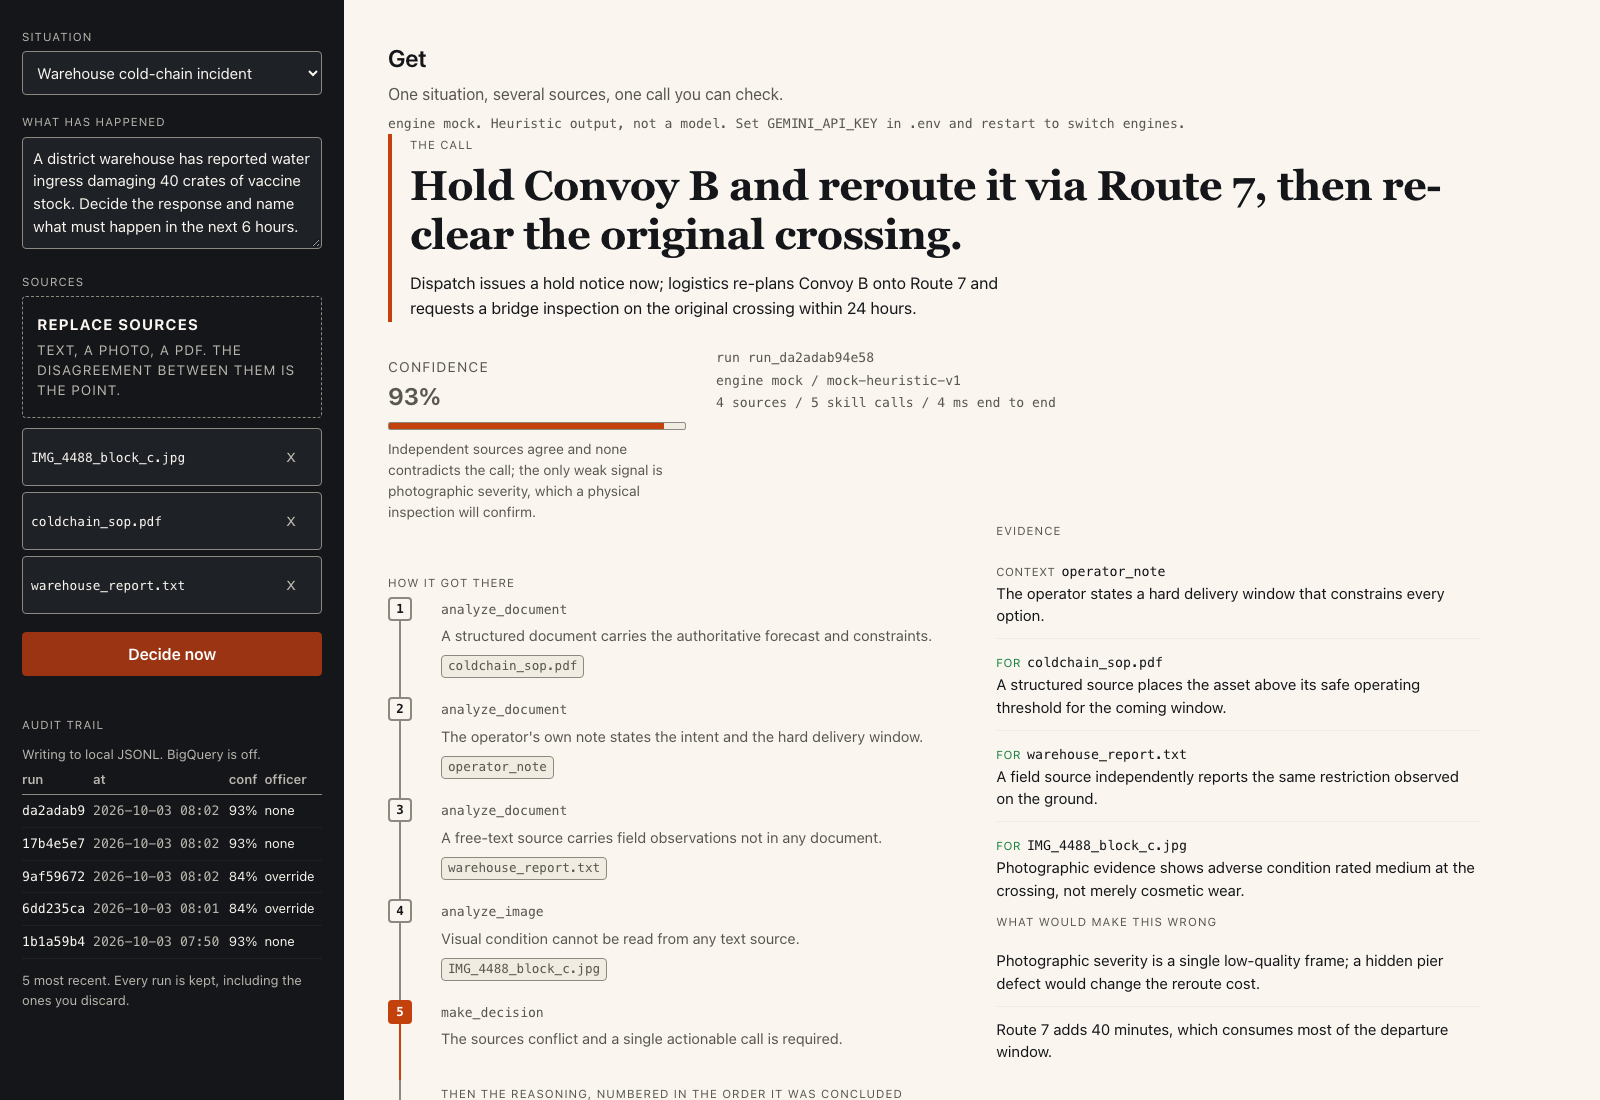
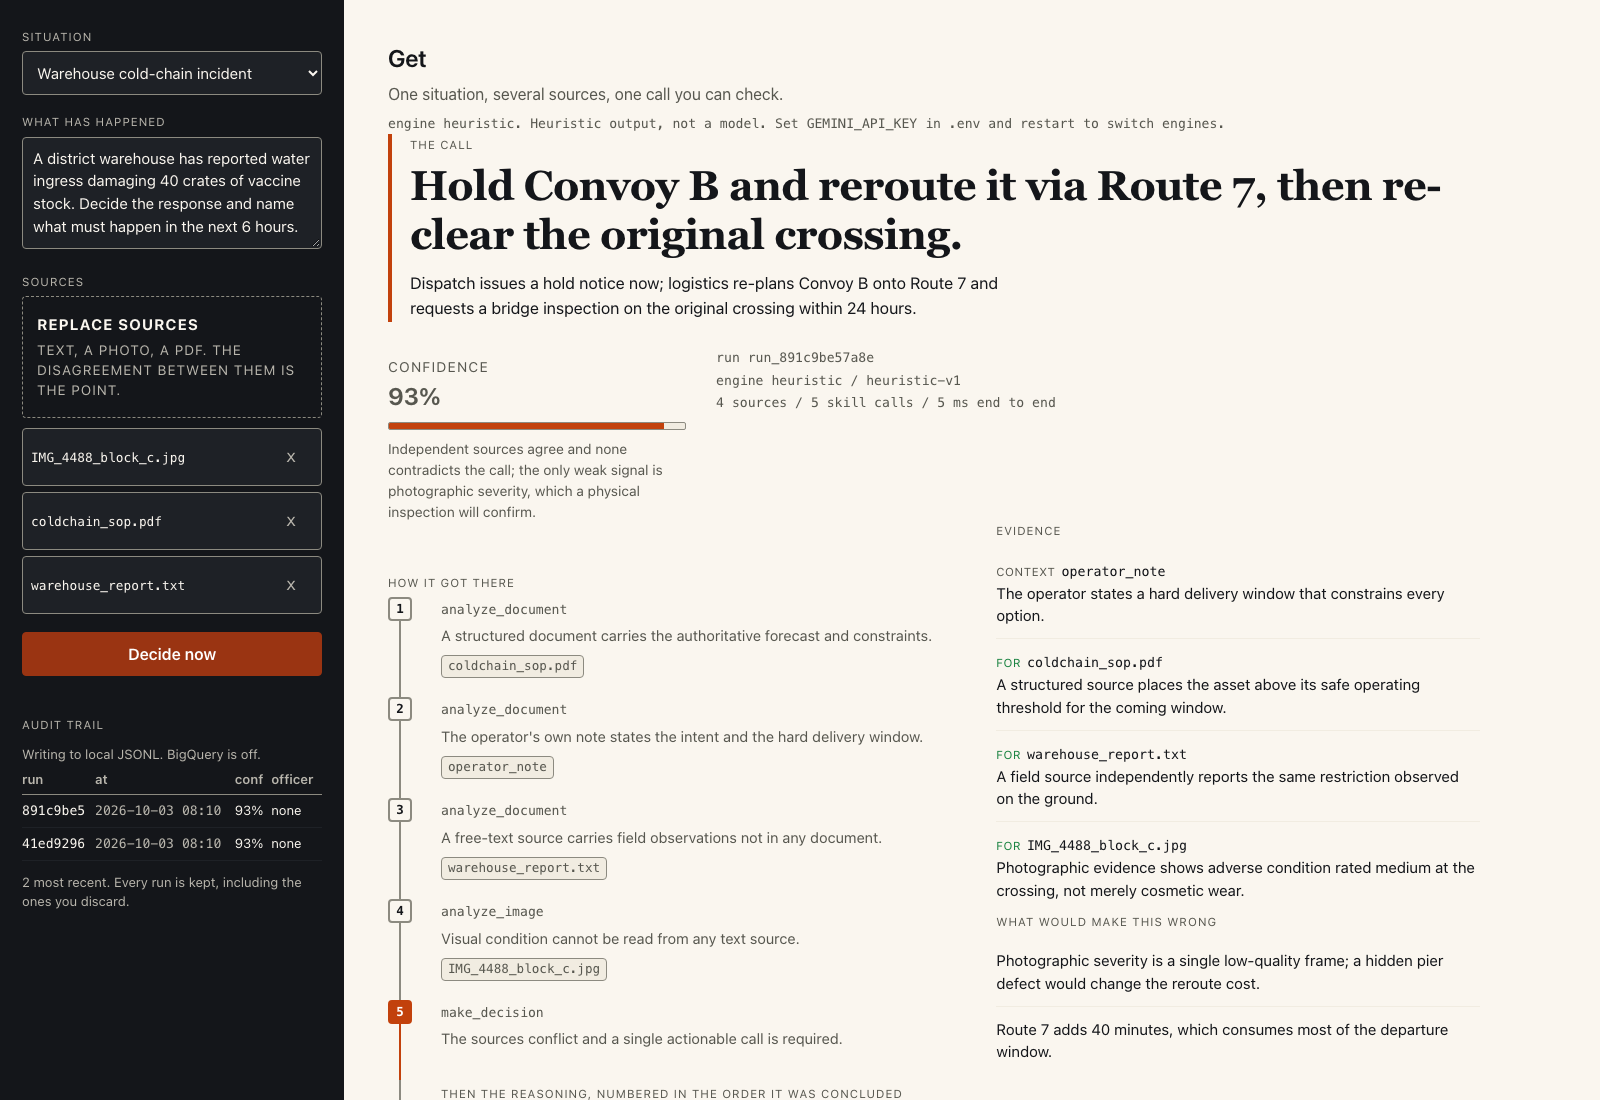
Rename mock engine to heuristic across code, UI, docs, tests, and deck

diff --git a/web/src/App.jsx b/web/src/App.jsx
@@ -241,7 +241,7 @@ export default function App() {
           <header className="masthead">
             <h1>Get</h1>
             <p>One situation, several sources, one call you can check.</p>
-            {mode !== 'mock' && health && (
+            {mode !== 'heuristic' && health && (
               <p className="runmeta" style={{ marginTop: 8 }}>
                 engine {mode} / {modeState.label}
               </p>
@@ -251,7 +251,7 @@ export default function App() {
           {health && (
             <p className="runmeta" style={{ marginTop: 8 }}>
               engine {mode}.{' '}
-              {mode === 'mock'
+              {mode === 'heuristic'
                 ? 'Heuristic output, not a model. Set GEMINI_API_KEY in .env and restart to switch engines.'
                 : modeState.label}
             </p>

diff --git a/web/src/api.js b/web/src/api.js
@@ -1,7 +1,7 @@
 export const DECISION_SKILL = 'make_decision'
 
 export const MODE_STATE = {
-  mock: { label: 'heuristic, not a model', color: 'var(--sb-caution)' },
+  heuristic: { label: 'heuristic, not a model', color: 'var(--sb-caution)' },
   gemini: { label: 'live model run', color: 'var(--sb-live)' },
   vertex: { label: 'live model run on Vertex AI', color: 'var(--sb-cloud)' },
 }

diff --git a/agent/gemini.py b/agent/gemini.py
@@ -87,9 +87,9 @@ class GeminiProvider(Provider):
         raise RuntimeError(f"gemini generation failed: {last_error}")
 
 
-class MockProvider(Provider):
-    name = "mock"
-    model = "mock-heuristic-v1"
+class HeuristicProvider(Provider):
+    name = "heuristic"
+    model = "heuristic-v1"
 
     def image_part(self, source_id: str, data: bytes, mime_type: str) -> Any:
         return {"kind": "image", "id": source_id, "mime": mime_type}
@@ -104,14 +104,14 @@ class MockProvider(Provider):
         docs = [p for p in payload if p["kind"] == "pdf"]
 
         if schema is Plan:
-            return Plan.model_validate(_mock_plan(raw, images, docs))  # type: ignore[return-value]
+            return Plan.model_validate(_heuristic_plan(raw, images, docs))  # type: ignore[return-value]
         if schema is DocumentFacts:
-            return DocumentFacts.model_validate(_mock_document(raw))  # type: ignore[return-value]
+            return DocumentFacts.model_validate(_heuristic_document(raw))  # type: ignore[return-value]
         if schema is ImageFindings:
-            return ImageFindings.model_validate(_mock_image(raw, images))  # type: ignore[return-value]
+            return ImageFindings.model_validate(_heuristic_image(raw, images))  # type: ignore[return-value]
         if schema is Decision:
-            return schema.model_validate(_mock_decision(raw, images, docs))  # type: ignore[return-value]
-        raise RuntimeError(f"mock provider does not implement {schema.__name__}")
+            return schema.model_validate(_heuristic_decision(raw, images, docs))  # type: ignore[return-value]
+        raise RuntimeError(f"heuristic provider does not implement {schema.__name__}")
 
 
 def _payload(contents: list[Any]) -> list[dict]:
@@ -124,7 +124,7 @@ def _payload(contents: list[Any]) -> list[dict]:
     return out
 
 
-def _mock_plan(raw: str, images: list[dict], docs: list[dict]) -> dict:
+def _heuristic_plan(raw: str, images: list[dict], docs: list[dict]) -> dict:
     text = raw.lower()
     manifest = dict(re.findall(r"^- (\S+) \((text|image|pdf)\)(?:\s|$)", text, flags=re.M))
     text_ids = [sid for sid, kind in manifest.items() if kind == "text" and sid != "operator_note"]
@@ -175,7 +175,7 @@ def _mock_plan(raw: str, images: list[dict], docs: list[dict]) -> dict:
     }
 
 
-def _mock_document(raw: str) -> dict:
+def _heuristic_document(raw: str) -> dict:
     text = raw.lower()
     risk_terms = [
         "closure", "closed", "damage", "damaged", "flood", "rain", "storm", "delay",
@@ -197,7 +197,7 @@ def _mock_document(raw: str) -> dict:
     }
 
 
-def _mock_image(raw: str, images: list[dict]) -> dict:
+def _heuristic_image(raw: str, images: list[dict]) -> dict:
     text = raw.lower()
     name = " ".join(i["id"].lower() for i in images)
     severe = any(k in name or k in text for k in ("damage", "crack", "bridge", "flood", "washout"))
@@ -216,7 +216,7 @@ def _mock_image(raw: str, images: list[dict]) -> dict:
     }
 
 
-def _mock_decision(raw: str, images: list[dict], docs: list[dict]) -> dict:
+def _heuristic_decision(raw: str, images: list[dict], docs: list[dict]) -> dict:
     text = raw.lower()
     analysed_images = re.findall(r"IMAGE_EVIDENCE source=(\S+?) severity=(\S+)", raw)
     severity_hit = any(
@@ -302,14 +302,14 @@ def _mock_decision(raw: str, images: list[dict], docs: list[dict]) -> dict:
     }
 
 
-def get_provider(force_mock: bool = False) -> Provider:
-    if force_mock or os.getenv("GET_FORCE_MOCK") == "1":
-        return MockProvider()
+def get_provider(force_heuristic: bool = False) -> Provider:
+    if force_heuristic or os.getenv("GET_FORCE_HEURISTIC") == "1":
+        return HeuristicProvider()
     if os.getenv("GEMINI_API_KEY") or os.getenv("GOOGLE_API_KEY") or os.getenv(
         "GOOGLE_CLOUD_PROJECT"
     ):
         try:
             return GeminiProvider()
         except Exception:
-            return MockProvider()
-    return MockProvider()
+            return HeuristicProvider()
+    return HeuristicProvider()

diff --git a/tests/test_acceptance.py b/tests/test_acceptance.py
@@ -48,7 +48,7 @@ print("\n[1] health and skills")
 h = client.get("/health")
 check("health 200", h.status_code == 200, h.text[:200])
 check("skills registered", set(h.json()["skills"]) == SKILL_INSTRUCTIONS)
-check("mode is reported", h.json()["mode"] in {"mock", "gemini", "vertex"})
+check("mode is reported", h.json()["mode"] in {"heuristic", "gemini", "vertex"})
 
 s = client.get("/skills")
 check("skills endpoint 200", s.status_code == 200)
@@ -162,11 +162,11 @@ if r4.status_code == 200:
     check("text-only produced a decision", len(t4["decision"]["decision"]) > 10)
     check("text-only still has a chain", len(t4["decision"]["reasoning_chain"]) >= 2)
 
-print("\n[8] determinism in mock mode")
+print("\n[8] determinism in heuristic mode")
 a = client.post("/process", data={"scenario": "Decide."}, files=upload(DATASET / "scenario_1_convoy"))
 b = client.post("/process", data={"scenario": "Decide."}, files=upload(DATASET / "scenario_1_convoy"))
-if a.json()["mode"] == "mock" and b.json()["mode"] == "mock":
-    check("mock output is stable", a.json()["decision"] == b.json()["decision"])
+if a.json()["mode"] == "heuristic" and b.json()["mode"] == "heuristic":
+    check("heuristic output is stable", a.json()["decision"] == b.json()["decision"])
 
 print(f"\n{passed} passed, {len(failed)} failed")
 for f in failed:

diff --git a/tests/test_eval.py b/tests/test_eval.py
@@ -118,7 +118,7 @@ def main() -> int:
     again = run_once(CONVOY_SCENARIO, upload(DATASET / "scenario_1_convoy"))
     base_trace = run_once(CONVOY_SCENARIO, upload(DATASET / "scenario_1_convoy"))
     deterministic = (
-        stable_form(again) == stable_form(base_trace) if again.get("mode") == "mock" else None
+        stable_form(again) == stable_form(base_trace) if again.get("mode") == "heuristic" else None
     )
 
     probe = run_once(CONVOY_SCENARIO, upload(DATASET / "scenario_1_convoy"))
@@ -132,7 +132,7 @@ def main() -> int:
     }
     REPORT.write_text(json.dumps(report, indent=2))
     print(f"\nstability under rewording/shuffle: {stability:.2f}")
-    print(f"deterministic rerun (mock only): {deterministic}")
+    print(f"deterministic rerun (heuristic only): {deterministic}")
     print(f"mean structure score: {report['mean_structure']:.2f}")
     print(f"report: {REPORT.relative_to(ROOT)}")
 

diff --git a/api/main.py b/api/main.py
@@ -156,11 +156,11 @@ if SERVE_WEB and WEB_DIST.is_dir():
 
 @app.post("/mode")
 def set_mode(mode: str) -> dict:
-    if mode not in {"mock", "auto"}:
-        raise HTTPException(status_code=422, detail="mode must be mock or auto")
-    if mode == "mock":
-        os.environ["GET_FORCE_MOCK"] = "1"
+    if mode not in {"heuristic", "auto"}:
+        raise HTTPException(status_code=422, detail="mode must be heuristic or auto")
+    if mode == "heuristic":
+        os.environ["GET_FORCE_HEURISTIC"] = "1"
     else:
-        os.environ.pop("GET_FORCE_MOCK", None)
+        os.environ.pop("GET_FORCE_HEURISTIC", None)
     agent.provider = get_provider()
     return {"mode": agent.provider.name, "model": agent.provider.model}

diff --git a/demo/make_ppt.py b/demo/make_ppt.py
@@ -453,7 +453,7 @@ def slide_others(prs):
         ("Prove.", "34 acceptance checks plus a browser gate that measures contrast, keyboard, viewports."),
     ], size=14)
     bullets(slide, mid + Inches(0.35), top, CONTENT_W / 2 - Inches(0.35), [
-        ("Honest today.", "Mock engine until GEMINI_API_KEY is set. The UI says which engine ran."),
+        ("Honest today.", "Heuristic engine until GEMINI_API_KEY is set. The UI says which engine ran."),
         ("Next.", "Live Gemini key, Cloud Run deploy from the Dockerfile, second scenario in the demo."),
         ("Ask.", "Convoy B is waiting on Route 7. Questions welcome."),
     ], size=14)

diff --git a/tests/test_gate_web.py b/tests/test_gate_web.py
@@ -216,9 +216,9 @@ def main() -> int:
 
         print("\nR-27  states")
         body = page.inner_text("body")
-        has_mock_notice = "Heuristic output, not a model" in body
-        print(f"  {'PASS' if has_mock_notice else 'FAIL'}  engine state is stated in words")
-        if not has_mock_notice:
+        has_engine_notice = "Heuristic output, not a model" in body
+        print(f"  {'PASS' if has_engine_notice else 'FAIL'}  engine state is stated in words")
+        if not has_engine_notice:
             failures.append("no engine state statement")
 
         has_audit = page.locator(".audit tbody tr").count() > 0

diff --git a/agent/schemas.py b/agent/schemas.py
@@ -95,7 +95,7 @@ class SkillResult(BaseModel):
 
 class RunTrace(BaseModel):
     run_id: str
-    mode: Literal["gemini", "vertex", "mock"]
+    mode: Literal["gemini", "vertex", "heuristic"]
     model: str
     scenario: str
     sources: list[str]

diff --git a/README.md b/README.md
@@ -63,7 +63,7 @@ Ideas below are cited where they are used. No code was taken from any of them.
 ## Layout
 
 ```
-agent/          core.py orchestration, gemini.py provider + mock, schemas.py,
+agent/          core.py orchestration, gemini.py provider + heuristic fallback, schemas.py,
                 registry.py skill loader, storage.py uploads, audit.py log
 skills/         one SKILL.md per skill, frontmatter declares the contract
 api/            FastAPI service (deployable to Cloud Run as-is)
@@ -98,12 +98,12 @@ The agent runs in one of three modes, and the UI always tells you which.
 
 | Mode | When | What it is |
 | --- | --- | --- |
-| `mock` | no credentials present, or `GET_FORCE_MOCK=1` | heuristic stand-in, no network calls. Fine for building and for rehearsing the demo. |
+| `heuristic` | no credentials present, or `GET_FORCE_HEURISTIC=1` | keyword-rule stand-in, no network calls. Fine for building and for rehearsing the demo. |
 | `gemini` | `GEMINI_API_KEY` is set | Gemini via the AI Developer API |
 | `vertex` | `GOOGLE_CLOUD_PROJECT` is set | Gemini on Vertex AI |
 
-Never present mock output as a real run. The UI shows an amber banner when the mode is
-`mock` for exactly that reason.
+Never present heuristic output as a real run. The UI states the engine in words on every
+screen, including when the engine is heuristic.
 
 ```bash
 cp .env.example .env      # then paste a key into GEMINI_API_KEY
@@ -169,7 +169,7 @@ Local-first by default, cloud-enabled by flag. Nothing breaks when a flag is off
 | `GOOGLE_CLOUD_PROJECT` | Gemini runs on Vertex AI instead of the AI Developer API |
 | `GET_BIGQUERY=1` | audit rows are inserted into BigQuery as well as JSONL |
 | `GET_GCS=1` + `GCS_BUCKET` | uploads are mirrored to Cloud Storage and referenced by `gs://` URI |
-| `GET_FORCE_MOCK=1` | force mock mode even with credentials present |
+| `GET_FORCE_HEURISTIC=1` | force heuristic mode even with credentials present |
 
 For Cloud Run, the `Dockerfile` builds both halves into one image: Python deps, then
 `npm ci` and `npm run build`, then uvicorn serves the API and the built front end from the
@@ -222,7 +222,7 @@ The acceptance checks cover what the demo depends on: every planned skill execut
 is analysed twice, the plan always terminates in `make_decision`, every reasoning step names a
 skill it really came from, evidence is attributed and flagged, the audit row lands, the duty
 officer can accept or override a run with the latest verdict winning, blank input
-is rejected, and mock mode is deterministic.
+is rejected, and heuristic mode is deterministic.
 
 The eval harness runs both demo scenarios plus reworded and shuffled variants, scores each run
 on ten structural checks, and measures decision stability across the variants. It writes
@@ -250,5 +250,5 @@ Drives the real UI with a headless browser and writes `demo/shots/`:
 | `02_convoy_reasoning.png` | the reasoning chain, risks, rejected alternatives, escalation |
 | `03_warehouse_*.png` | the same UI on the second scenario |
 
-Regenerate these after you add a real Gemini key, so nothing in the deck carries the amber
-mock-mode banner.
+Regenerate these after you add a real Gemini key, so nothing in the deck carries the
+heuristic-mode notice.
